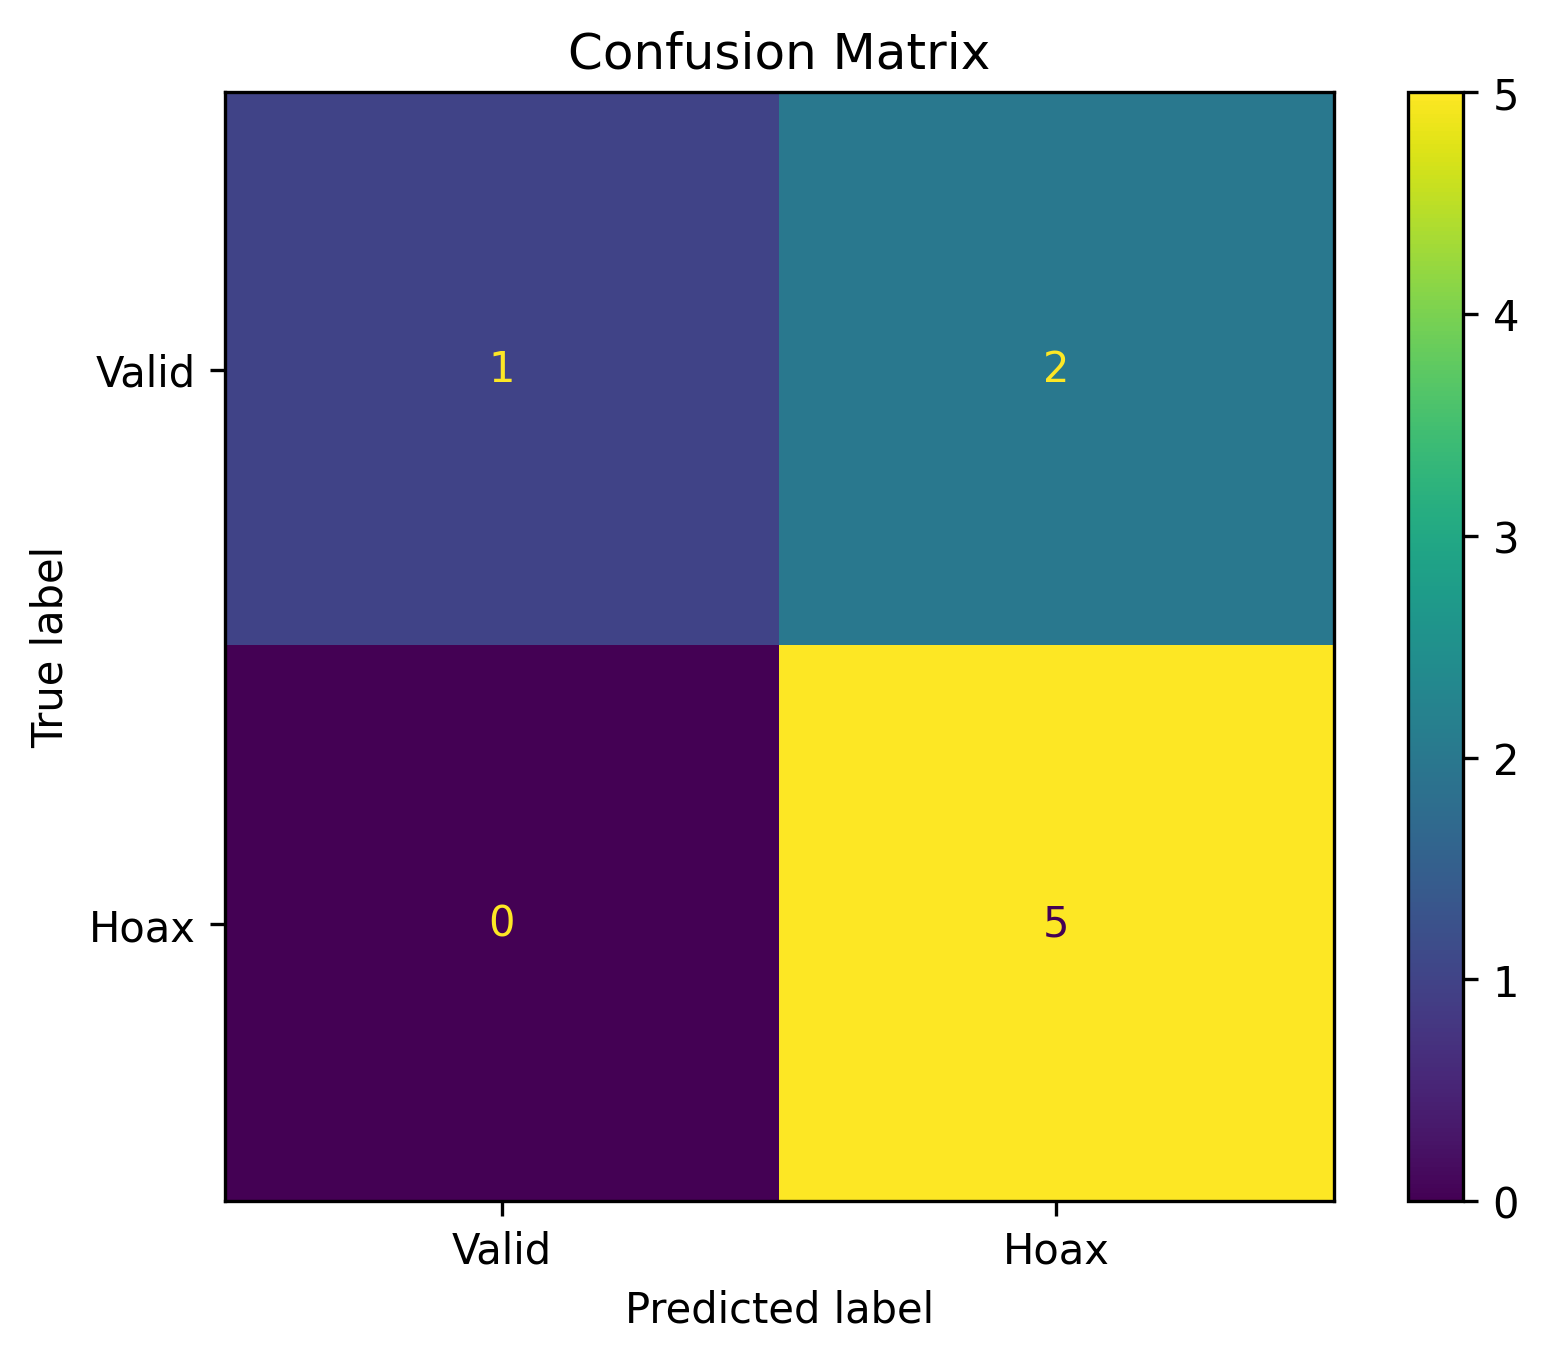
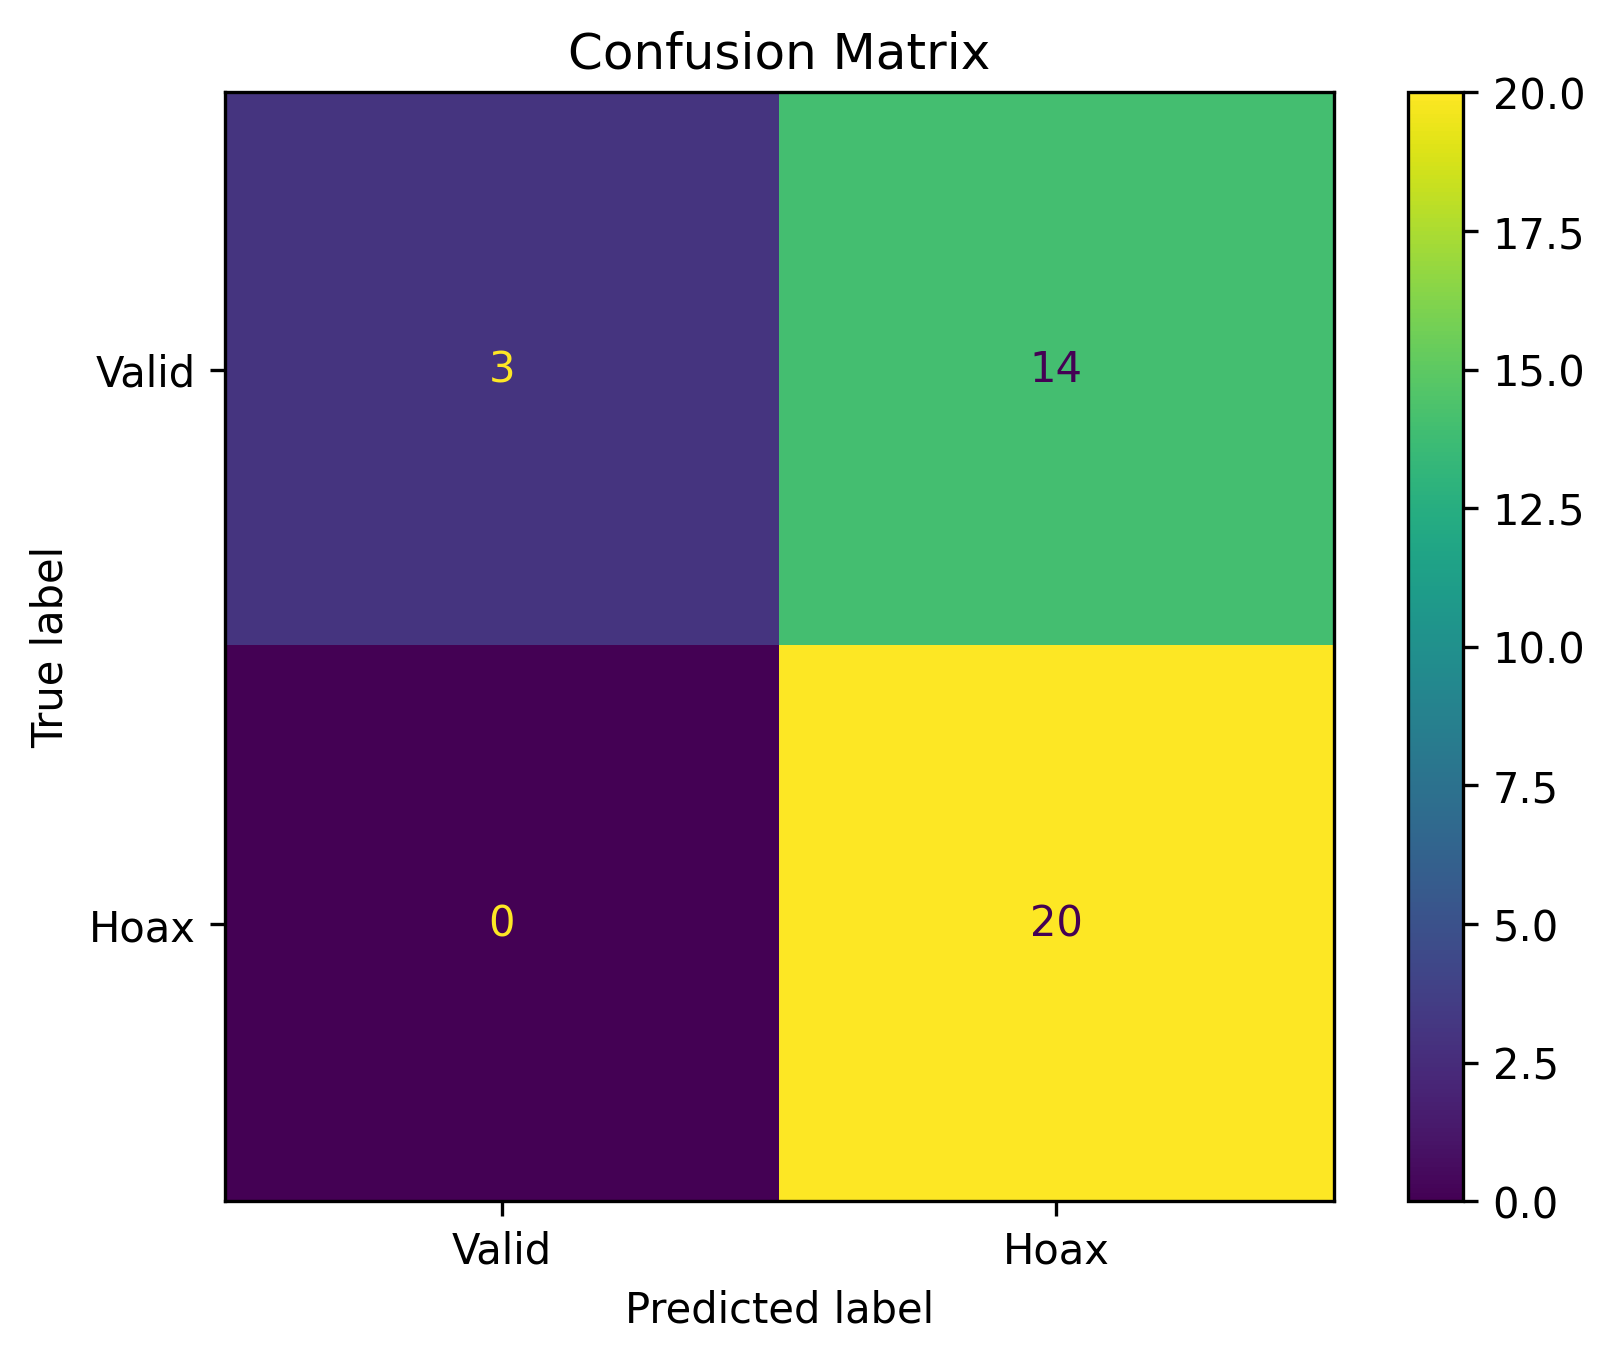
pengujian done

diff --git a/main.py b/main.py
@@ -144,7 +144,7 @@ Teks:
 def generate_keyword(claim: str):
     
     prompt = f"""
-Buat keyword pencarian berita singkat dari klaim berikut.
+Buat keyword pencarian berita dari klaim berikut.
 
 Aturan:
 - ambil kata paling spesifik dan penting
@@ -367,9 +367,9 @@ def generate_verification_result(claim, relevant_articles):
     }
 
 
-def search_google_news(keyword: str, start=0, limit=20):
+def search_google_news(claim: str, start=0, limit=20):
     gn = GoogleNews(lang="id", country="ID")
-    hasil = gn.search(keyword)
+    hasil = gn.search(claim)
     print("Jumlah hasil:", len(hasil["entries"]))
     entries = hasil["entries"][start:start+limit]
 
@@ -677,7 +677,7 @@ def verify_news(berita: str):
 
         print(f"\nMengambil berita {start + 1}-{start + limit}")
 
-        news_list = search_google_news(search_keyword, start=start, limit=limit)
+        news_list = search_google_news(claim, start=start, limit=limit)
 
         if not news_list:
             print("Tidak ada berita lagi.")
@@ -718,7 +718,7 @@ def verify_news(berita: str):
             ),
             "sources": [],
             "claim": claim,
-            "search_keyword": search_keyword,
+            "search_keyword": claim,
             "layer": "google_news",
         }
 
@@ -738,7 +738,7 @@ def verify_news(berita: str):
             ),
             "sources": [],
             "claim": claim,
-            "search_keyword": search_keyword,
+            "search_keyword": claim,
             "layer": "google_news",
         }
 
@@ -788,7 +788,7 @@ def verify_news(berita: str):
             for article in scraped_articles
         ],
         "claim": claim,
-        "search_keyword": search_keyword,
+        "search_keyword": claim,
         "layer": "google_news",
         "articles": scraped_articles,
         "counts": {
@@ -817,7 +817,3 @@ def verifikasi(berita: str = Form(...)):
 if __name__ == "__main__":
     uvicorn.run("main:app", host="127.0.0.1", port=8000, reload=True)
 
-
-# masih belum fiks di url source yang ditampilkan di layer 1 ya 
-# parameter berita yang diambil masih belum difiks kan 
-# cek semua kondisi lagi 